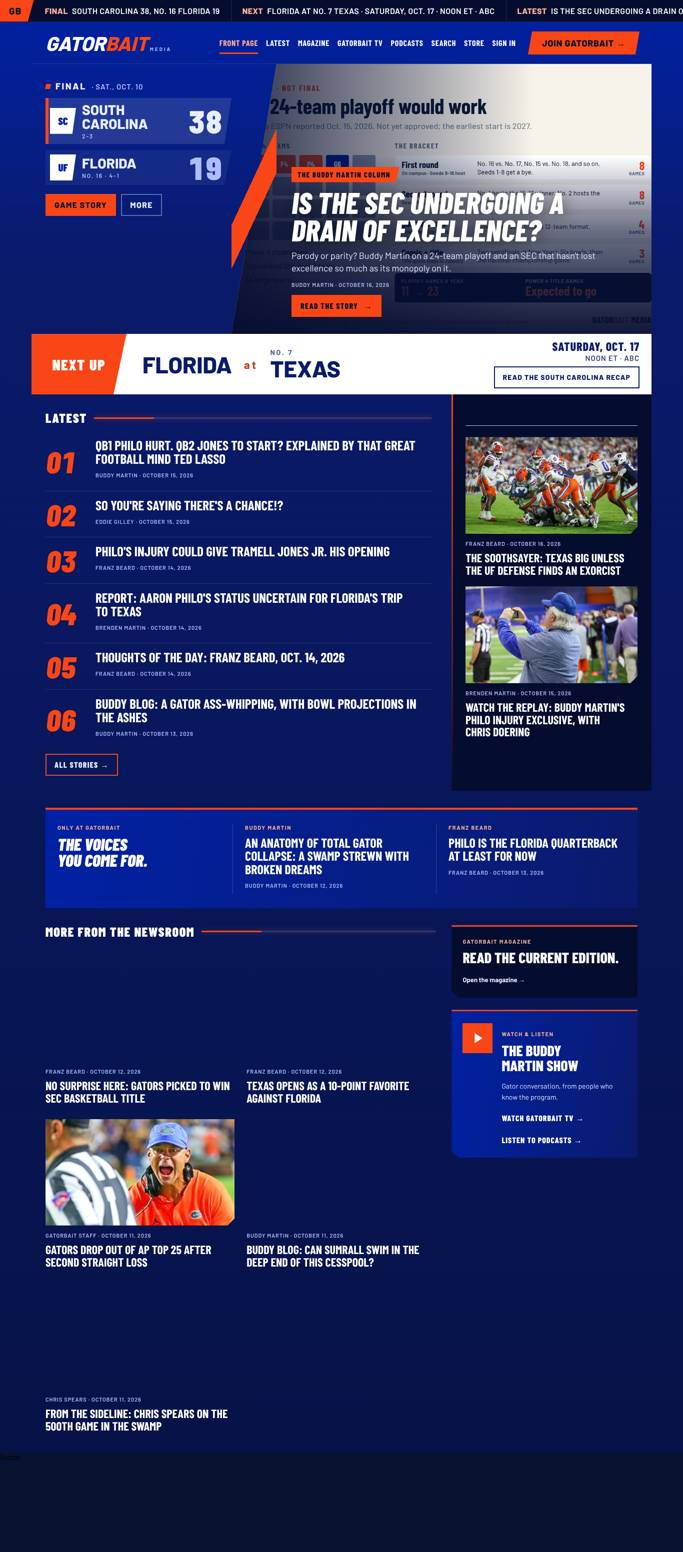
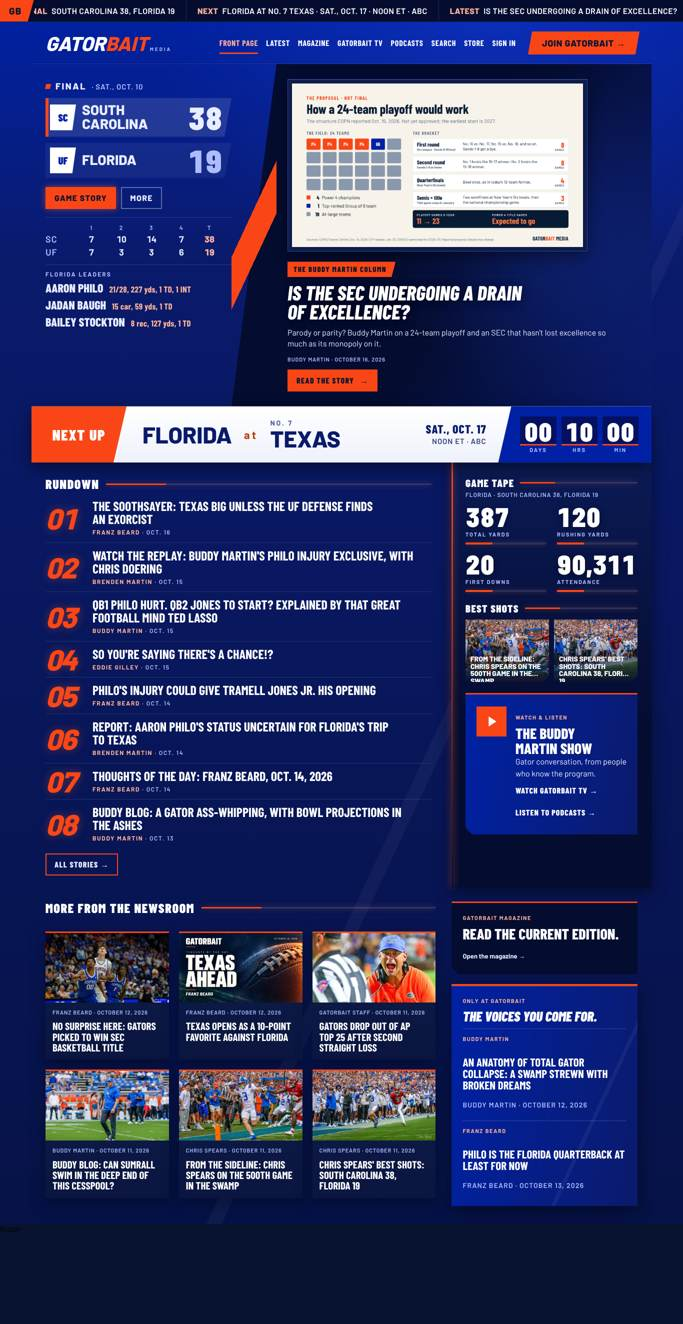
Broadcast S1: kill dead space and add depth on the homepage
Scoreboard column: quarter line score and Florida leaders. Below the
next-up bar: numbered rundown beside a side panel with Game tape (ESPN
totals and attendance), Best Shots and the show tile. Graphic leads in a
framed bezel above the headline. Layered shadows, orange glows and the
diagonal light streak. scoreboard.json gains optional last.tape and
last.leaders from the ESPN summary it already reads.

Claude-Session: https://claude.ai/code/session_01M2boc2RC9EF9BPk1ruFEFp

diff --git a/sports-live/broadcast-home.js b/sports-live/broadcast-home.js
@@ -7,7 +7,7 @@
 'use strict';if(window.__GBM_BC_HOME__)return;window.__GBM_BC_HOME__=1;
 var R='#gbm-live.gbm-gazette.gbm-sports-home';
 var C="html:has(@) body{background:#061247!important}"+
-"@{--o:#fa4616;--nt:#040c30;--tx:#e8edff;--mu:#aebcff;--pk:#ffb39a;--dc:'Barlow Condensed','Barlow',Arial,sans-serif;background:linear-gradient(180deg,#0021a5 0,#0a1a6b 520px,#061247 100%)!important;color:var(--tx)!important}"+
+"@{--o:#fa4616;--nt:#040c30;--tx:#e8edff;--mu:#aebcff;--pk:#ffb39a;--dc:'Barlow Condensed','Barlow',Arial,sans-serif;background:linear-gradient(115deg,transparent 0 62%,#ffffff0a 62% 63.2%,transparent 63.2%),radial-gradient(ellipse 70% 38% at 72% 0,#2b57ff40,transparent 70%),linear-gradient(180deg,#0021a5 0,#0a1a6b 520px,#061247 100%)!important;color:var(--tx)!important}"+
 "@ h1,@ h2,@ h3,@ .bc-d{font-family:var(--dc)!important;letter-spacing:0!important;text-transform:uppercase;color:#fff}"+
 "@ a{color:inherit}@ a:focus-visible{outline:3px solid #f2b632!important;outline-offset:3px}"+
 "@ .sh-meta{color:var(--mu)!important;font-weight:600;letter-spacing:.08em;text-transform:uppercase;font-size:11px}"+
@@ -44,7 +44,11 @@ var C="html:has(@) body{background:#061247!important}"+
 "@ .bc-pt{font:900 64px/.8 var(--dc);font-variant-numeric:tabular-nums}@ .bc-tm:not(.bc-w) .bc-pt{color:var(--mu)}"+
 "@ .bc-go{display:flex;flex-wrap:wrap;gap:10px;margin:6px 0 0}"+
 "@ .bc-go a,@ .bc-nx .bc-lk{display:inline-flex;align-items:center;min-height:44px;padding:0 16px;border:2px solid #ffffff59;font:800 16px/1 var(--dc);letter-spacing:.08em;text-transform:uppercase;text-decoration:none}"+
-"@ .bc-go a.bc-o{background:var(--o);border-color:var(--o);color:#08132f}"+
+"@ .bc-go a.bc-o{background:var(--o);border-color:var(--o);color:#08132f;box-shadow:0 0 14px #ff6a2b80}"+
+"@ .bc-ls{display:grid;grid-template-columns:62px repeat(4,1fr) 52px;gap:6px 0;margin:4px 0 0;padding:12px 18px 0 0;border-top:1px solid #ffffff24;font:700 18px/1.1 var(--dc);text-align:center;font-variant-numeric:tabular-nums}"+
+"@ .bc-ls span:nth-child(6n+1){text-align:left;color:var(--mu);font-weight:600;letter-spacing:.06em}@ .bc-ls .h{color:var(--mu);font:600 12px/1.4 Barlow,sans-serif;letter-spacing:.14em}@ .bc-ls .t{color:var(--pk);font-weight:900}"+
+"@ .bc-ld{display:grid;gap:10px;margin:2px 0 0;padding-top:12px;border-top:1px solid #ffffff24}@ .bc-ld>small{font:700 12px/1 Barlow,sans-serif;letter-spacing:.18em;text-transform:uppercase;color:var(--mu)}"+
+"@ .bc-ld p{margin:0;display:flex;flex-wrap:wrap;align-items:baseline;gap:2px 12px}@ .bc-ld b{font:800 24px/1 var(--dc);text-transform:uppercase}@ .bc-ld em{font:normal 700 17px/1.1 var(--dc);color:var(--pk);letter-spacing:.02em}"+
 "@ .bc-hero .sh-lead{margin:0!important;min-height:540px;background:var(--nt)!important;clip-path:polygon(90px 0,100% 0,100% 100%,0 100%);border:0!important}"+
 "@ .bc-hero.bc-solo .sh-lead{clip-path:none}"+
 "@ .bc-hero .sh-lead figure,@ .bc-hero .sh-lead figure>a{position:absolute!important;inset:0;height:100%}"+
@@ -58,15 +62,17 @@ var C="html:has(@) body{background:#061247!important}"+
 "@ .bc-hero h1{font:italic 800 clamp(40px,4.4vw,64px)/.92 var(--dc)!important;text-shadow:0 4px 30px #00000080;max-width:780px}"+
 "@ .bc-hero .sh-deck{color:#dfe5ff!important;font-size:18px!important;line-height:1.4!important;max-width:640px}"+
 "@ .bc-hero .sh-read{justify-self:start;display:inline-flex;align-items:center;min-height:44px;padding:0 18px;background:var(--o);color:#08132f!important;font:800 16px/1 var(--dc)!important;letter-spacing:.08em;text-transform:uppercase}"+
-"@ .bc-graphic .sh-lead{min-height:0;display:block!important}@ .bc-graphic .sh-lead:after{display:none}"+
-"@ .bc-graphic .sh-lead figure{position:relative!important;inset:auto!important;height:auto;padding-left:90px;background:#040c30}@ .bc-graphic .sh-lead figure>a{position:static!important;display:block;height:auto}"+
+"@ .bc-graphic .sh-lead{display:grid!important;grid-template-columns:1fr;align-content:center;gap:20px;padding:30px 40px 30px 112px;background:radial-gradient(ellipse 60% 70% at 78% 50%,#2b57ff33,transparent 70%),linear-gradient(115deg,#040c30 0 55%,#0a1a6b)!important}"+
+"@ .bc-graphic .sh-lead:after{display:none}"+
+"@ .bc-graphic .sh-lead figure{order:0;max-width:600px;position:relative!important;inset:auto!important;height:auto;padding:8px;background:#0f1c4a;border:1px solid #2a4aa8;box-shadow:0 10px 30px #00000073,0 0 0 1px #00000040,inset 0 1px 0 #ffffff1f}"+
+"@ .bc-graphic .sh-lead figure>a{position:static!important;display:block;height:auto}"+
 "@ .bc-graphic .sh-lead img{position:static;display:block;width:100%!important;height:auto!important;aspect-ratio:16/9!important;object-fit:contain!important;background:#040c30}"+
-"@ .bc-graphic .sh-lead figcaption{position:static;padding:6px 0 0;text-shadow:none;color:var(--mu)}"+
-"@ .bc-graphic .sh-lead-copy{position:static!important;padding:22px 44px 30px 64px!important;max-width:none}"+
-"@ .bc-graphic h1{font-size:clamp(34px,3.4vw,50px)!important;text-shadow:none}@ .bc-graphic .sh-deck{max-width:760px}"+
+"@ .bc-graphic .sh-lead figcaption{position:static;padding:6px 2px 0;text-shadow:none;color:var(--mu)}"+
+"@ .bc-graphic .sh-lead-copy{order:1;position:static!important;padding:0!important;max-width:none}"+
+"@ .bc-graphic h1{font-size:clamp(32px,3vw,46px)!important;text-shadow:0 3px 18px #00000080}@ .bc-graphic .sh-deck{font-size:16px!important}"+
 "@ .bc-slash{position:absolute;left:400px;top:0;bottom:0;width:90px;z-index:3;pointer-events:none;background:linear-gradient(115deg,transparent 0 44%,var(--o) 44% 56%,transparent 56%)}"+
 /* next up */
-"@ .bc-nx{display:grid;grid-template-columns:190px minmax(0,1fr) auto;min-height:112px;margin:0 -28px;background:#fff;color:#0a1a6b}"+
+"@ .bc-nx{display:grid;grid-template-columns:190px minmax(0,1fr) auto;min-height:112px;margin:0 -28px;background:linear-gradient(180deg,#fff,#eef1fb);color:#0a1a6b;position:relative;z-index:2;box-shadow:0 10px 30px #00000073,0 -1px 0 #ffffff59}"+
 "@ .bc-tag{display:grid;place-items:center;background:var(--o);color:#fff;font:900 30px/1 var(--dc);letter-spacing:.06em;text-transform:uppercase;clip-path:polygon(0 0,100% 0,calc(100% - 26px) 100%,0 100%)}"+
 "@ .bc-mu{display:flex;align-items:center;flex-wrap:wrap;gap:6px 24px;padding:12px 24px 12px 32px;min-width:0}"+
 "@ .bc-mu .bc-t{font:900 46px/1 var(--dc);text-transform:uppercase;color:#0a1a6b}@ .bc-mu .bc-t small{display:block;font:700 14px/1.2 var(--dc);letter-spacing:.2em;color:#4a5a9c}"+
@@ -104,7 +110,32 @@ var C="html:has(@) body{background:#061247!important}"+
 "@ a.sh-mcover{border-color:#fff!important}@ .sh-magazine>a:not(.sh-mcover){display:flex;align-items:center;min-height:44px}"+
 "@ #sh-freshness a{display:flex;align-items:center;justify-content:center;min-height:44px;background:var(--o);color:#08132f;font:800 16px/1 var(--dc);letter-spacing:.08em;text-transform:uppercase}"+
 "@ .sh-gameday{margin-block:18px}"+
-"@media(max-width:1100px) and (min-width:821px){@ .sh-header{flex-wrap:wrap;gap:0 24px;padding-block:10px}@ .sh-header nav{order:3;width:100%;margin:0;justify-content:flex-start;border-top:1px solid #ffffff1a!important}@ .sh-join{margin-left:auto!important}@ .bc-hero{grid-template-columns:330px minmax(0,1fr)}@ .bc-slash{left:330px}@ .sh-front{grid-template-columns:minmax(0,1fr) 330px!important}@ .bc-nx{grid-template-columns:150px minmax(0,1fr) auto}@ .bc-tag{font-size:24px}@ .bc-mu .bc-t{font-size:36px}@ .bc-cd b{min-width:56px;font-size:40px}}"+
+"@ .sh-front.bc-moved{display:none!important}"+
+"@ .bc-body{display:grid;grid-template-columns:minmax(0,1fr) 400px;margin:0 -28px;position:relative}"+
+"@ .bc-run{padding:30px 40px 24px 28px;min-width:0}@ .bc-rows{list-style:none;margin:0;padding:0}"+
+"@ .bc-row a{display:grid;grid-template-columns:78px minmax(0,1fr);align-items:center;gap:16px;padding:12px 0;border-top:1px solid #ffffff1f;color:#fff;text-decoration:none}@ .bc-row:first-child a{border-top:0;padding-top:4px}"+
+"@ .bc-n{font:italic 900 58px/.8 var(--dc);color:var(--o);letter-spacing:-.03em;font-variant-numeric:tabular-nums;text-shadow:0 0 18px #ff6a2b59}"+
+"@ .bc-row h3{font:700 26px/1 var(--dc)!important;margin:0}@ .bc-row a:hover h3{color:var(--pk)}@ .bc-by{display:block;margin-top:6px;font:600 12px/1.3 Barlow,sans-serif;letter-spacing:.14em;text-transform:uppercase;color:var(--mu)}@ .bc-by b{color:var(--pk);font-weight:700}"+
+"@ .bc-side{position:relative;display:grid;align-content:start;gap:22px;padding:30px 28px;background:linear-gradient(180deg,#0b1a55,#040c30 62%);box-shadow:0 10px 30px #00000073,inset 1px 0 0 #ffffff14,inset 0 1px 0 #ffffff12}"+
+"@ .bc-side:before{content:'';position:absolute;left:0;top:0;bottom:0;width:3px;background:linear-gradient(180deg,var(--o),transparent);box-shadow:0 0 14px #ff6a2bbf}"+
+"@ .bc-h{display:flex;align-items:center;gap:12px;margin:0 0 12px;font:900 21px/1 var(--dc)!important;letter-spacing:.06em!important;text-transform:uppercase;color:#fff}@ .bc-h:after{content:'';flex:1;height:3px;background:linear-gradient(90deg,var(--o) 0 70px,#ffffff26 70px);box-shadow:0 0 12px #ff6a2b66}"+
+"@ .bc-note{margin:-6px 0 12px;font:600 12px/1.3 Barlow,sans-serif;letter-spacing:.08em;text-transform:uppercase;color:var(--mu)}"+
+"@ .bc-stats{display:grid;grid-template-columns:1fr 1fr;gap:16px 22px}@ .bc-stat b{display:block;font:900 54px/.85 var(--dc);font-variant-numeric:tabular-nums;color:#fff;text-shadow:0 2px 12px #00000059}"+
+"@ .bc-stat span{display:block;margin-top:6px;font:700 11px/1.2 Barlow,sans-serif;letter-spacing:.18em;text-transform:uppercase;color:var(--mu)}@ .bc-stat i{display:block;height:4px;margin-top:10px;background:linear-gradient(90deg,var(--o) 0 54px,#ffffff1f 54px);box-shadow:0 0 10px #ff6a2b4d}"+
+"@ .bc-shots{display:grid;grid-template-columns:1fr 1fr;gap:10px}@ .bc-shot{position:relative;display:block;aspect-ratio:4/3;overflow:hidden;background:#0f1c4a;clip-path:polygon(0 0,100% 0,100% calc(100% - 14px),calc(100% - 14px) 100%,0 100%)}"+
+"@ .bc-shot img{width:100%!important;height:100%!important;object-fit:cover!important;transition:transform .3s}@ .bc-shot:hover img{transform:scale(1.04)}"+
+"@ .bc-shot span{position:absolute;left:0;right:0;bottom:0;padding:28px 10px 9px;background:linear-gradient(transparent,#040c30f2);font:800 14px/1.05 var(--dc);text-transform:uppercase;color:#fff;display:-webkit-box;-webkit-line-clamp:3;-webkit-box-orient:vertical;overflow:hidden}"+
+"@ .bc-side .sh-watch{margin:0!important;box-shadow:0 10px 30px #00000059}"+
+"@ .sh-voices{box-shadow:0 10px 30px #00000073,inset 0 1px 0 #ffffff1f;position:relative;overflow:hidden}@ .sh-voices:after{content:'';position:absolute;inset:0;pointer-events:none;background:linear-gradient(115deg,transparent 0 70%,#ffffff0d 70% 71.5%,transparent 71.5%)}"+
+"@ .sh-voices,@ .sh-lower{margin-block:28px 0!important}@ .sh-lower{padding-bottom:36px!important}"+
+"@ .sh-coverage article{background:linear-gradient(180deg,#0f1c4a,#0a1640);border-top:3px solid var(--o);box-shadow:0 10px 30px #00000059,inset 0 1px 0 #ffffff12;padding:0 0 14px}@ .sh-coverage article>a{display:block}"+
+"@ .sh-coverage article .sh-meta,@ .sh-coverage article h2{padding-inline:14px}@ .sh-coverage article img{margin-bottom:10px;clip-path:none}"+
+"@ .bc-sd{display:grid;gap:22px}@ .bc-sd:empty{display:none}@ .sh-lower>aside{display:grid;gap:20px;align-content:start}"+
+"@ .sh-voices.bc-stack{display:grid!important;grid-template-columns:1fr!important;gap:12px!important;margin:0!important;padding:22px!important}@ .bc-stack .sh-voices-label h2 br{display:none}"+
+"@ .bc-stack article{padding:12px 0 0!important;border:0!important;border-top:1px solid #ffffff2e!important}@ .bc-stack h2{font-size:28px!important}@ .bc-stack h3{font-size:23px!important}"+
+"@ .sh-coverage{gap:20px!important}@ .sh-watch:not(.bc-tv),@ .sh-magazine{box-shadow:0 10px 30px #00000059}"+
+"@media(min-width:1101px){@ .sh-coverage{grid-template-columns:repeat(3,minmax(0,1fr))!important}@ .sh-coverage h2{font-size:21px!important}}"+
+"@media(max-width:1100px) and (min-width:821px){@ .bc-body{grid-template-columns:minmax(0,1fr) 330px}@ .bc-graphic .sh-lead{padding:26px 30px 26px 96px}@ .sh-header{flex-wrap:wrap;gap:0 24px;padding-block:10px}@ .sh-header nav{order:3;width:100%;margin:0;justify-content:flex-start;border-top:1px solid #ffffff1a!important}@ .sh-join{margin-left:auto!important}@ .bc-hero{grid-template-columns:330px minmax(0,1fr)}@ .bc-slash{left:330px}@ .sh-front{grid-template-columns:minmax(0,1fr) 330px!important}@ .bc-nx{grid-template-columns:150px minmax(0,1fr) auto}@ .bc-tag{font-size:24px}@ .bc-mu .bc-t{font-size:36px}@ .bc-cd b{min-width:56px;font-size:40px}}"+
 "@media(max-width:820px){@ .sh-header{display:none!important}"+
 "@ .bc-bug{font-size:16px;padding:0 16px 0 12px}@ .bc-trk a{font-size:14px;padding:0 16px}"+
 "@ main{padding-inline:18px!important}@ .bc-hero,@ .bc-nx,@ .sh-front{margin:0 -18px}"+
@@ -112,7 +143,9 @@ var C="html:has(@) body{background:#061247!important}"+
 "@ .bc-hero .sh-lead{order:-1;min-height:430px;clip-path:polygon(0 0,100% 0,100% 100%,0 calc(100% - 36px))!important}"+
 "@ .bc-hero .sh-lead:after{background:linear-gradient(0deg,#040c30f7 0,#040c308c 42%,#040c3000 68%)}"+
 "@ .bc-hero .sh-lead-copy{left:16px!important;right:16px!important;bottom:44px!important;gap:10px}"+
-"@ .bc-graphic .sh-lead{min-height:0;clip-path:none!important}@ .bc-graphic .sh-lead figure{padding-left:0}@ .bc-graphic .sh-lead-copy{padding:16px 16px 34px!important}@ .bc-graphic .sh-lead-copy .sh-meta{display:block}"+
+"@ .bc-graphic .sh-lead{min-height:0;clip-path:none!important;display:flex!important;flex-direction:column;gap:14px;padding:16px 16px 36px}@ .bc-graphic .sh-lead figure{order:0;padding:6px}@ .bc-graphic .sh-lead-copy{order:1}@ .bc-graphic .sh-lead-copy .sh-meta{display:block}"+
+"@ .bc-ls,@ .bc-ld{display:none}@ .bc-body{display:block;margin:0 -18px}@ .bc-run{padding:20px 18px 8px}@ .bc-side{padding:24px 18px}"+
+"@ .bc-row a{grid-template-columns:52px minmax(0,1fr);gap:12px}@ .bc-n{font-size:42px}@ .bc-row h3{font-size:21px!important;line-height:1.02!important}@ .bc-stat b{font-size:40px}@ .bc-h{font-size:19px!important}"+
 "@ .bc-hero h1{font-size:clamp(30px,9.4vw,40px)!important;line-height:.93!important}@ .bc-graphic h1{font-size:clamp(28px,8.4vw,36px)!important}@ .bc-hero .sh-deck{font-size:15px!important;display:-webkit-box;-webkit-line-clamp:2;-webkit-box-orient:vertical;overflow:hidden}"+
 "@ .bc-hero .sh-meta{display:none}@ .bc-hero .sh-read{min-height:44px}"+
 "@ .bc-sc{margin:-22px 16px 0;padding:10px 14px;background:#fff;color:#0a1a6b;display:grid;grid-template-columns:auto 1fr 1fr;gap:6px 12px;align-items:center;clip-path:polygon(0 0,100% 0,calc(100% - 10px) 100%,0 100%)}"+
@@ -147,8 +180,8 @@ function get(u,t){return fetch(u,{cache:'no-store',credentials:'omit'}).then(fun
 function loadFeed(){return get('/blog-feed.xml?t='+minute(),1).then(function(x){var d=new DOMParser().parseFromString(x,'text/xml'),out=[];
 [].slice.call(d.querySelectorAll('item')).forEach(function(i){var q=function(k){var n=[].slice.call(i.children).find(function(c){return c.localName===k;});return n?n.textContent.trim():'';},u;
 try{u=new URL(q('link'),location.href);}catch(e){return;}if(!/(^|\.)gatorbaitmedia\.com$/.test(u.hostname)||u.pathname.indexOf('/post/')!==0||!q('title'))return;
-out.push([Date.parse(q('pubDate'))||0,q('title'),u.pathname]);});
-out.sort(function(a,b){return b[0]-a[0];});if(out.length>=3)D.feed=out.slice(0,7);}).catch(function(){});}
+var en=i.querySelector('enclosure');out.push([Date.parse(q('pubDate'))||0,q('title'),u.pathname,q('creator'),en?en.getAttribute('url')||'':'']);});
+out.sort(function(a,b){return b[0]-a[0];});if(out.length>=3){D.all=out;D.feed=out.slice(0,7);}}).catch(function(){});}
 var CFG='https://presidente49.github.io/gatorbait-media-redesign/sports-live/front-page.config.json';
 function loadCfg(){return get(CFG+'?t='+Math.floor(Date.now()/36e5)).then(function(c){if(c&&Array.isArray(c.covers))D.covers=c.covers;}).catch(function(){});}
 /* A lead whose cover is a typeset graphic (a covers[] media id, or a PNG; photos here are JPG) shows whole with the headline below it, not over it. */
@@ -175,6 +208,7 @@ var fr=sb&&sb.team&&sb.team.rank;
 if(lv&&lv.state==='in')M.live={opp:lv.oppName,oppRank:lv.oppRank,flaRank:lv.flaRank,fla:lv.fla,oppS:lv.opp,home:lv.home,neutral:lv.neutral,detail:lv.detail,date:lv.date};
 if(lv&&lv.state==='post'&&lv.done)M.last={opp:lv.oppName,oppRank:lv.oppRank,fla:lv.fla,oppS:lv.opp,home:lv.home,neutral:lv.neutral,date:lv.date,links:[]};
 else if(sb&&sb.last&&sb.last.score)M.last={opp:sb.last.opponent,oppRank:sb.last.opponentRank,fla:sb.last.score.fla,oppS:sb.last.score.opp,home:sb.last.home,neutral:sb.last.neutral,date:sb.last.date,links:[sb.last.recapUrl,sb.last.galleryUrl].filter(post)};
+if(M.last&&sb&&sb.last&&sb.last.score&&M.last.opp===sb.last.opponent&&M.last.fla===sb.last.score.fla&&M.last.oppS===sb.last.score.opp){M.last.q=sb.last.quarters;M.last.tape=sb.last.tape;M.last.leaders=sb.last.leaders;}
 if(M.last&&now-Date.parse(M.last.date)>8*DAY)M.last=null;
 var n=sb&&sb.next;if(n&&!(lv&&String(n.eventId)===lv.id&&lv.state!=='pre')&&Date.parse(n.kickoffIso)>now-HR)M.next={opp:n.opponent,oppRank:n.opponentRank,flaRank:fr,home:n.home,neutral:n.neutral,k:Date.parse(n.kickoffIso),tv:n.tv,venue:n.venue,href:post(n.previewUrl)?n.previewUrl:''};
 if(!sb){/* fallback: the page's Up next card and the game-day desk's data, with the stale-card guard */
@@ -199,8 +233,12 @@ heads.forEach(function(h){if(h[1])it.push(['Latest',h[0],h[1]]);});return it;}
 function teamRow(name,rank,rec,score,win){return'<div class="bc-tm'+(win?' bc-w':'')+'"><b class="bc-ab" aria-hidden="true">'+esc(ab(name))+'</b><span class="bc-nm">'+esc(name)+'<small>'+(rank?'No. '+esc(rank):'')+(rank&&rec?' · ':'')+esc(rec||'')+'</small></span><b class="bc-pt">'+esc(score)+'</b></div>';}
 function panel(M){var x=M.live||M.last;if(!x)return'';var L=!!M.live,f=[ 'Florida',L?x.flaRank:null,'',x.fla],o=[x.opp,x.oppRank,'',x.oppS],aw=x.home?o:f,hm=x.home?f:o;
 var win=L?null:(x.fla>x.oppS?f:o),lk=L?[]:M.links.slice(0,2);
+var ls='',q=!L&&x.q;if(q&&q.fla&&q.opp&&q.fla.length===q.opp.length&&q.fla.length>=4){var n=q.fla.length,hdr=[''];for(var i=1;i<=n;i++)hdr.push(i>4?'OT':String(i));hdr.push('T');
+var row=function(nm,arr,t){return'<span>'+esc(ab(nm))+'</span>'+arr.map(function(v){return'<span>'+esc(v)+'</span>';}).join('')+'<span class="t">'+esc(t)+'</span>';},aq=x.home?q.opp:q.fla,hq=x.home?q.fla:q.opp;
+ls='<div class="bc-ls" aria-label="Score by quarter" style="grid-template-columns:62px repeat('+n+',1fr) 52px">'+hdr.map(function(h){return'<span class="h">'+h+'</span>';}).join('')+row(aw[0],aq,aw[3])+row(hm[0],hq,hm[3])+'</div>';}
+var ld=!L&&x.leaders&&x.leaders.length?'<div class="bc-ld"><small>Florida leaders</small>'+x.leaders.slice(0,3).map(function(r){return'<p><b>'+esc(r[1])+'</b><em>'+esc(String(r[2]).replace(/ (YDS|CAR|REC)\b/g,function(m,w){return' '+w.toLowerCase();}))+'</em></p>';}).join('')+'</div>':'';
 return'<section class="bc-sc" aria-label="Scoreboard: '+esc(aw[0])+(x.neutral?' vs. ':' at ')+esc(hm[0])+'"'+(L?' aria-live="polite"':'')+'><p class="bc-lbl"><i></i>'+(L?'Live':'Final')+' <span>· '+esc(L?(x.detail||day(x.date)):day(x.date))+'</span></p>'+
-teamRow(aw[0],aw[1],aw[2],aw[3],aw===win)+teamRow(hm[0],hm[1],hm[2],hm[3],hm===win)+(lk.length?'<p class="bc-go">'+lk.map(function(h,k){return'<a'+(k?'':' class="bc-o"')+' href="'+esc(h)+'">'+(k?'More':'Game story')+'</a>';}).join('')+'</p>':'')+'</section><span class="bc-slash" aria-hidden="true"></span>';}
+teamRow(aw[0],aw[1],aw[2],aw[3],aw===win)+teamRow(hm[0],hm[1],hm[2],hm[3],hm===win)+(lk.length?'<p class="bc-go">'+lk.map(function(h,k){return'<a'+(k?'':' class="bc-o"')+' href="'+esc(h)+'">'+(k?'More':'Game story')+'</a>';}).join('')+'</p>':'')+ls+ld+'</section><span class="bc-slash" aria-hidden="true"></span>';}
 function bar(M){var a,at,b,w1,w2,k=0;
 if(M.next){var mu=matchup(M.next);a=mu[0];at=mu[1];b=mu[2];w1=day(M.next.k);w2=kick(M.next.k)+(M.next.tv?' · '+M.next.tv:'');k=tba(M.next.k)?0:M.next.k;}
 else if(M.card&&!M.live){a=M.card.a;at=M.card.at;b=M.card.b;var ps=M.card.when.split(' · ');w1=ps[0];w2=ps.slice(1).join(' · ');}
@@ -219,7 +257,21 @@ put(tk,html,'tk');}
 var hero=root.querySelector('.bc-hero'),slot=hero&&hero.querySelector('.bc-ps'),ph=band?'':panel(M);
 if(hero)hero.classList.toggle('bc-graphic',graphic(root));
 if(slot&&put(slot,ph,'ps'))hero.classList.toggle('bc-solo',!ph);
+var sd=root.querySelector('.bc-sd');if(sd)put(sd,side(root,M),'sd');
 var bx=root.querySelector('.bc-nx'),bh=bar(M);if(bx){if(put(bx,bh,'nx'))cdTick();bx.hidden=!bh;var ref=root.querySelector('.sh-reference');if(ref)ref.style.display=bh||D.sb?'none':'';}}
+var MONTHS=['January','February','March','April','May','June','July','August','September','October','November','December'];
+function shortDate(t){var m=/([A-Z][a-z]+) (\d{1,2}), \d{4}/.exec(t||''),i=m?MONTHS.indexOf(m[1]):-1;return i<0?'':MO[i]+' '+m[2];}
+/* Rundown rows from the stories the page already rendered (support stories, then the latest list), newest first as served. */
+function rundown(root){var rows=[];[].slice.call(root.querySelectorAll('.sh-support article,.sh-wire-item')).forEach(function(a){var l=a.querySelector('a[href]'),t=a.querySelector('h2,h3'),m=a.querySelector('.sh-meta');
+if(!l||!t)return;var mt=m?m.textContent.split(' · '):[];rows.push({h:l.getAttribute('href'),t:t.textContent.trim(),by:(mt[0]||'').trim(),d:shortDate(mt[1]||'')});});
+return rows.slice(0,8).map(function(r,i){return'<li class="bc-row"><a href="'+esc(r.h)+'"><span class="bc-n" aria-hidden="true">'+(i<9?'0':'')+(i+1)+'</span><span><h3>'+esc(r.t)+'</h3><span class="bc-by">'+(r.by?'<b>'+esc(r.by)+'</b>':'')+(r.by&&r.d?' · ':'')+esc(r.d)+'</span></span></a></li>';}).join('');}
+function img(u,w,h){return/^https:\/\/static\.wixstatic\.com\/media\/[^/]+~mv2\.(jpe?g|png|webp)$/i.test(u)?u+'/v1/fill/w_'+w+',h_'+h+',al_c,q_80,enc_auto/file.jpg':u;}
+function side(root,M){var h='',x=M.last,t=x&&x.tape;
+if(t&&!M.live){var st=[[t.totalYards,'Total yards'],[t.rushingYards,'Rushing yards'],[t.firstDowns,'First downs'],[t.attendance,'Attendance']].filter(function(v){return v[0]!=null;});
+if(st.length)h+='<section aria-label="Game tape"><h2 class="bc-h">Game tape</h2><p class="bc-note">Florida · '+esc(finalLine(x))+'</p><div class="bc-stats">'+st.map(function(v){return'<div class="bc-stat"><b>'+esc(Number(v[0]).toLocaleString('en-US'))+'</b><span>'+v[1]+'</span><i></i></div>';}).join('')+'</div></section>';}
+var shots=(D.all||[]).filter(function(f){return/chris spears/i.test(f[3]||'')&&f[4]&&Date.now()-f[0]<30*DAY;}).slice(0,2);
+if(shots.length===2)h+='<section aria-label="Best shots"><h2 class="bc-h">Best shots</h2><div class="bc-shots">'+shots.map(function(f){return'<a class="bc-shot" href="'+esc(f[2])+'"><img src="'+esc(img(f[4],480,360))+'" alt="" loading="lazy" decoding="async" width="480" height="360"><span>'+esc(f[1])+'</span></a>';}).join('')+'</div></section>';
+return h;}
 function build(){
 var root=document.querySelector(R);if(!root||root.getAttribute('data-bc'))return;
 var main=root.querySelector('#sh-main'),lead=root.querySelector('.sh-lead'),head=root.querySelector('.sh-header'),front=root.querySelector('.sh-front');if(!main||!lead||!front)return;
@@ -229,6 +281,13 @@ var join=head&&head.querySelector('.sh-join');if(join&&!join.querySelector('span
 var hero=document.createElement('section');hero.className='bc-hero bc-solo';hero.setAttribute('aria-label','Top story');hero.innerHTML='<div class="bc-ps"></div>';
 main.insertBefore(hero,front);hero.appendChild(lead);
 var bx=document.createElement('section');bx.className='bc-nx';bx.hidden=true;bx.setAttribute('aria-label','Next game');main.insertBefore(bx,front);
+var rows=rundown(root),ttl=root.querySelector('.sh-latest .sh-section-title'),more=root.querySelector('.sh-latest .sh-more');
+if(rows){var body=document.createElement('section');body.className='bc-body';body.setAttribute('aria-label','Rundown');
+body.innerHTML='<div class="bc-run"><h2 class="sh-section-title">Rundown</h2><ol class="bc-rows">'+rows+'</ol>'+(more?'<a class="sh-more" href="'+esc(more.getAttribute('href'))+'">'+esc(more.textContent)+'</a>':'')+'</div><aside class="bc-side" aria-label="Game tape, best shots and shows"><div class="bc-sd"></div></aside>';
+main.insertBefore(body,front);front.classList.add('bc-moved');
+var tv=root.querySelector('.sh-watch.bc-tv')||[].slice.call(root.querySelectorAll('.sh-watch:not(.sh-reference)')).find(function(w){return w.querySelector('a[href^="/the-buddy-martin-show"]');});
+if(tv){tv.classList.add('bc-tv');body.querySelector('.bc-side').appendChild(tv);}
+var voices=root.querySelector('.sh-voices'),la=root.querySelector('.sh-lower>aside');if(voices&&la){la.appendChild(voices);voices.classList.add('bc-stack');}}
 [].slice.call(root.querySelectorAll('.sh-watch:not(.sh-reference)')).forEach(function(w){if(w.querySelector('a[href^="/the-buddy-martin-show"]'))w.classList.add('bc-tv');});
 render();}
 function sync(){if(document.querySelector(R+':not([data-bc])'))build();}

diff --git a/automation/scoreboard_feed.py b/automation/scoreboard_feed.py
@@ -178,6 +178,14 @@ def parse_summary(sm):
         play = cur['plays'][-1]
         poss = poss or (cur.get('team') or {}).get('id')
     out['possession'] = poss and str(poss)
+    # Box-score totals, attendance and per-team leaders for the front page's game tape (absent from trimmed fixtures).
+    out['stats'] = {str((t.get('team') or {}).get('id')): {x.get('name'): x.get('displayValue') for x in t.get('statistics') or []}
+                    for t in (sm.get('boxscore') or {}).get('teams') or []}
+    att = (sm.get('gameInfo') or {}).get('attendance')
+    out['attendance'] = int(att) if isinstance(att, (int, float)) and att > 0 else None
+    out['leaders'] = {str((t.get('team') or {}).get('id')): [[c.get('displayName'), ((c['leaders'][0].get('athlete') or {}).get('displayName')), c['leaders'][0].get('displayValue')]
+                                                         for c in t.get('leaders') or [] if c.get('leaders')]
+                      for t in sm.get('leaders') or []}
     out['lastPlay'] = (play.get('text') or None) if play else None
     return out
 
@@ -290,10 +298,24 @@ def build(schedule, standings, summaries, posts_doc, prev, now):
                     raise ScoreError(f'event {g["eventId"]}: quarters {q} do not add up to schedule score {g["score"]}')
         elif prev and (prev.get('last') or {}).get('eventId') == g['eventId']:
             q = prev['last'].get('quarters')  # summary read failed: keep what we already had for this game
+        tape, leaders = None, None
+        if sm and TEAM_ID in sm.get('stats', {}):
+            def num(v):
+                return int(v) if isinstance(v, str) and v.isdigit() else None
+            st = sm['stats'][TEAM_ID]
+            tape = {'totalYards': num(st.get('totalYards')), 'rushingYards': num(st.get('rushingYards')),
+                    'firstDowns': num(st.get('firstDowns')), 'attendance': sm.get('attendance')}
+            if all(v is None for v in tape.values()):
+                tape = None
+            leaders = [r for r in sm.get('leaders', {}).get(TEAM_ID, [])
+                       if r[0] in ('Passing Yards', 'Rushing Yards', 'Receiving Yards') and r[1] and r[2]] or None
+        elif prev and (prev.get('last') or {}).get('eventId') == g['eventId']:
+            tape, leaders = prev['last'].get('tape'), prev['last'].get('leaders')
         out['last'] = {
             'eventId': g['eventId'], 'opponent': g['opponent'], 'opponentRank': g['opponentRank'], 'home': g['home'], 'neutral': g['neutral'],
             'date': g['date'], 'status': 'final', 'score': g['score'], 'quarters': q, 'venue': g['venue'],
             'recapUrl': find_story(g, posts, 'recap'), 'galleryUrl': find_story(g, posts, 'gallery'),
+            'tape': tape, 'leaders': leaders,
         }
 
     out['next'] = None

diff --git a/automation/validate_scoreboard.py b/automation/validate_scoreboard.py
@@ -123,7 +123,7 @@ def validate(doc):
     last = doc.get('last')
     if last is not None and v.obj(last, 'last', ('eventId', 'opponent', 'opponentRank', 'home', 'date', 'status', 'score',
                                                   'quarters', 'venue', 'recapUrl', 'galleryUrl'),
-                                                  optional=('neutral',)):
+                                                  optional=('neutral', 'tape', 'leaders')):
         v.string(last.get('eventId'), 'last.eventId')
         v.string(last.get('opponent'), 'last.opponent')
         v.rank(last.get('opponentRank'), 'last.opponentRank')
@@ -143,6 +143,18 @@ def validate(doc):
         v.string(last.get('venue'), 'last.venue', nullable=True)
         v.link(last.get('recapUrl'), 'last.recapUrl')
         v.link(last.get('galleryUrl'), 'last.galleryUrl')
+        tape = last.get('tape')
+        if tape is not None:
+            if not isinstance(tape, dict) or set(tape) != {'totalYards', 'rushingYards', 'firstDowns', 'attendance'}:
+                v.err('last.tape', 'must be null or {totalYards, rushingYards, firstDowns, attendance}')
+            else:
+                for k, val in tape.items():
+                    if val is not None and (not _int(val) or val < 0):
+                        v.err(f'last.tape.{k}', f'must be a non-negative integer or null, got {val!r}')
+        lead = last.get('leaders')
+        if lead is not None:
+            if not isinstance(lead, list) or not lead or not all(isinstance(r, list) and len(r) == 3 and all(isinstance(x, str) and x for x in r) for r in lead):
+                v.err('last.leaders', 'must be null or a non-empty list of [category, player, line] strings')
 
     nxt = doc.get('next')
     if nxt is not None and v.obj(nxt, 'next', ('eventId', 'opponent', 'opponentRank', 'home', 'kickoffIso', 'tv', 'venue', 'previewUrl'),

diff --git a/automation/tests/test_scoreboard_feed.py b/automation/tests/test_scoreboard_feed.py
@@ -378,5 +378,30 @@ class ImportTests(unittest.TestCase):
         self.assertEqual(si.name_for('https://site.api.espn.com/apis/v2/sports/football/college-football/standings?group=8&season=2026'), 'standings.json')
 
 
+
+class GameTapeTests(unittest.TestCase):
+    """last.tape and last.leaders: optional, validated when present (front page Game tape and Florida leaders)."""
+    def doc(self):
+        return json.loads((HERE.parent.parent / 'sports-live/scoreboard.json').read_text())
+
+    def test_tape_and_leaders_validate(self):
+        d = self.doc()
+        d['last']['tape'] = {'totalYards': 387, 'rushingYards': 120, 'firstDowns': 20, 'attendance': 90311}
+        d['last']['leaders'] = [['Passing Yards', 'Aaron Philo', '21/28, 227 YDS, 1 TD, 1 INT']]
+        self.assertEqual(vs.validate(d), [])
+        d['last']['tape'] = None
+        d['last']['leaders'] = None
+        self.assertEqual(vs.validate(d), [])
+
+    def test_bad_tape_is_rejected(self):
+        d = self.doc()
+        d['last']['tape'] = {'totalYards': -1, 'rushingYards': 120, 'firstDowns': 20, 'attendance': None}
+        self.assertTrue(vs.validate(d))
+        d['last']['tape'] = {'totalYards': 1}
+        self.assertTrue(vs.validate(d))
+        d['last'].pop('tape')
+        d['last']['leaders'] = [['Passing Yards', '', '1 YDS']]
+        self.assertTrue(vs.validate(d))
+
 if __name__ == '__main__':
     unittest.main()

diff --git a/README.md b/README.md
@@ -51,14 +51,14 @@ Live URL once merged: `https://presidente49.github.io/gatorbait-media-redesign/s
 
 ```
 { updatedAt, season, team:{name,rank,record,conf},
-  last:{eventId,opponent,opponentRank,home,neutral?,date,status:"final",score:{fla,opp},quarters:{fla:[..],opp:[..]}|null,venue,recapUrl,galleryUrl},
+  last:{eventId,opponent,opponentRank,home,neutral?,date,status:"final",score:{fla,opp},quarters:{fla:[..],opp:[..]}|null,venue,recapUrl,galleryUrl,tape?:{totalYards,rushingYards,firstDowns,attendance}|null,leaders?:[[category,player,line]]|null},
   next:{eventId,opponent,opponentRank,opponentRecord?,home,neutral?,kickoffIso,tv,venue,previewUrl},
   schedule:[{eventId,date,opponent,opponentRank,opponentRecord?,home,status,score:{fla,opp}|null,tv,storyUrl}],
   standings:[{team,confRecord,overall}],           // SEC, best conference record first
   live: null | {eventId,clock,period,score:{fla,opp},possession:"fla"|"opp"|null,lastPlay} }
 ```
 
-`opponentRecord` is optional: the opponent's overall record as `"3-1"` or `null`. On `next` it is the current record from ESPN's pregame summary (The Tunnel prints it under the opponent's name); on a `schedule` row ESPN supplies it only once that game is final, and it is the record after that game. `status` is `scheduled`, `in-progress`, `final`, `postponed` or `canceled`. `next` is the first game not yet final, so during a game it is the game in progress. `home` is false at a neutral site; `neutral` (optional on `last` and `next`) is true there, so a page can write "Florida vs. Georgia" rather than "Florida at Georgia". `last`, `next` and `live` are `null` when they don't apply. Ranks are AP (1-25) or `null`. For a game with no set time, ESPN sends a placeholder kickoff (04:00Z or 05:00Z); the feed passes it through.
+`opponentRecord` is optional: the opponent's overall record as `"3-1"` or `null`. On `next` it is the current record from ESPN's pregame summary (The Tunnel prints it under the opponent's name); on a `schedule` row ESPN supplies it only once that game is final, and it is the record after that game. `status` is `scheduled`, `in-progress`, `final`, `postponed` or `canceled`. `next` is the first game not yet final, so during a game it is the game in progress. `home` is false at a neutral site; `neutral` (optional on `last` and `next`) is true there, so a page can write "Florida vs. Georgia" rather than "Florida at Georgia". `tape` (Florida's box-score totals and attendance) and `leaders` (Florida's passing, rushing and receiving leaders, ESPN's own lines) come from the last final's ESPN summary and feed the homepage's Game tape and Florida leaders; either is `null` when ESPN has no data. `last`, `next` and `live` are `null` when they don't apply. Ranks are AP (1-25) or `null`. For a game with no set time, ESPN sends a placeholder kickoff (04:00Z or 05:00Z); the feed passes it through.
 
 Commands:
 
